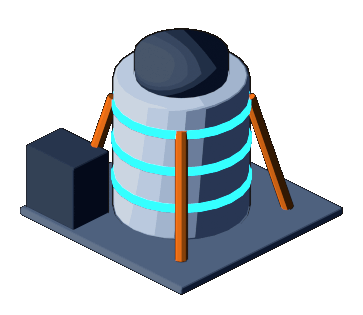
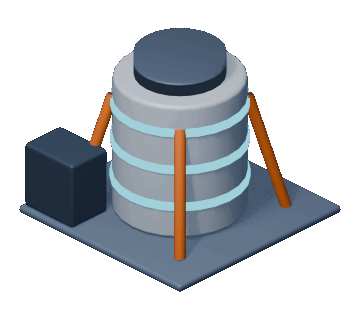
The ship after NASA's Mars Transit Habitat, firing thrusters and a streaming sky
The ship follows NASA Marshall's Mars Transit Habitat concept: one large
habitat with an airlock and docking port on its forward dome, radiator panels,
two windows and a robotic arm on the skin, a round aft skirt, and a hybrid
propulsion stage behind it (truss, four propellant tanks, deployable
radiators, two long roll-out solar arrays and a ring of Hall thrusters). It is
rendered with the team's current module look (clay shading, key light scaled
to the model), and so are the props.

In the game the Hall thrusters fire with a faint pulsing blue plume (ionized
xenon), and behind the ship the sky streams past in parallax: far and near
stars, the nearest with short trails, and soft clouds of stellar dust. Still
with reduced motion or effects off.

DEV panel: find the running scene by its status (getScenes(true) can come
back empty).

diff --git a/src/cenas/Espaco.ts b/src/cenas/Espaco.ts
@@ -25,13 +25,27 @@ const ACHATAR = 0.6;
 const GIRO_FILME = giroEm(Date.parse(`2024-05-${String(4 + voo.dia).padStart(2, '0')}T12:00:00Z`));                         // the solar system is drawn tilted, like the map
 const DIA_MARTE_MS = 88775244;               // one Mars day (sol), 24 h 39 min
 const MARTE_MIN_PX = 30;                     // Mars is drawn at least this wide, so you can see its face
-const HORAS_POR_SEG = 6;                     // gentle time drift while you look from space
+const HORAS_POR_SEG = 6;
+// The trip to Mars (chapter 2): the sky streams past the ship. The ship points to +gx, which on the
+// map is right and down (30, 15), so everything moves up and left. Speeds in px per second; far
+// stars barely move, near ones leave a short trail, and soft clouds of stellar dust drift between.
+const RUMO = { x: -30 / Math.hypot(30, 15), y: -15 / Math.hypot(30, 15) };
+const CAMADAS = [
+  { n: 220, v: 7, r: 0.9, a: 0.55, cor: 0xffffff, rastro: 0, poeira: false },
+  { n: 90, v: 28, r: 1.3, a: 0.75, cor: 0xdbeafe, rastro: 0, poeira: false },
+  { n: 30, v: 110, r: 1.6, a: 0.7, cor: 0xe0f2fe, rastro: 14, poeira: false },
+  { n: 14, v: 45, r: 46, a: 0.045, cor: 0xa78bfa, rastro: 0, poeira: true },
+  { n: 10, v: 70, r: 30, a: 0.05, cor: 0x7dd3fc, rastro: 0, poeira: true },
+];                     // gentle time drift while you look from space
 
 export class Espaco extends Phaser.Scene {
   private constelacaoAtual?: {img: Phaser.GameObjects.Image; mask?: Phaser.GameObjects.Graphics; progress?: {v:number}};
   private modoConstelacao = '';
   private ceu!: Phaser.GameObjects.Image;
   private ceuMarte!: Phaser.GameObjects.Rectangle;   // chapter 3: the daytime sky of Mars behind the map
+  // Chapter 2, the ship: stars and stellar dust streaming past, in parallax layers.
+  private viagem: Phaser.GameObjects.Graphics | null = null;
+  private estrelas: { x: number; y: number; c: number; r: number }[] = [];
   private escalaCeu = 1;
   private lua!: ReturnType<typeof criarLua>;        // live GPU Moon (luaShader.ts)
   private marte: ReturnType<typeof criarPlaneta> | null = null;   // live GPU Mars (planetaShader.ts)
@@ -61,6 +75,13 @@ export class Espaco extends Phaser.Scene {
     this.modoConstelacao = '';
     this.events.once('shutdown',()=>this.limparConstelacao());
     this.ceuMarte = this.add.rectangle(0, 0, W, H, 0xc99a72).setOrigin(0).setDepth(-99).setVisible(false);
+    this.viagem = null; this.estrelas = [];
+    if (sessao.mundo === 'nave') {
+      this.viagem = this.add.graphics().setDepth(-98);
+      for (let c = 0; c < CAMADAS.length; c++)
+        for (let i = 0; i < CAMADAS[c].n; i++)
+          this.estrelas.push({ x: Math.random() * W, y: Math.random() * H, c, r: CAMADAS[c].r * (0.6 + Math.random() * 0.8) });
+    }
     this.escalaCeu = Math.max(W / this.ceu.width, H / this.ceu.height);
     this.ceu.setScale(this.escalaCeu);
 
@@ -152,6 +173,30 @@ export class Espaco extends Phaser.Scene {
     c.img.clearMask(true);c.mask?.destroy();c.img.destroy();this.constelacaoAtual=undefined;
   }
 
+  // Moves and draws the streaming sky (chapter 2). Still with reduced motion or effects off.
+  private viajar(dt: number, W: number, H: number) {
+    const g = this.viagem!;
+    g.clear();
+    const anda = !movimentoReduzido() && video.efeitos && !configuracoesAbertas;
+    for (const e of this.estrelas) {
+      const c = CAMADAS[e.c];
+      if (anda) {
+        e.x += RUMO.x * c.v * dt; e.y += RUMO.y * c.v * dt;
+        const m = c.poeira ? e.r * 2 : 20;               // wrap around, entering from the far side
+        if (e.x < -m) e.x += W + 2 * m; if (e.y < -m) e.y += H + 2 * m;
+        if (e.x > W + m) e.x -= W + 2 * m; if (e.y > H + m) e.y -= H + 2 * m;
+      }
+      if (c.poeira) {
+        for (const k of [1, 0.7, 0.45]) g.fillStyle(c.cor, c.a).fillCircle(e.x, e.y, e.r * k);
+      } else if (c.rastro && anda) {
+        g.lineStyle(e.r, c.cor, c.a * 0.5).lineBetween(e.x, e.y, e.x - RUMO.x * c.rastro, e.y - RUMO.y * c.rastro);
+        g.fillStyle(c.cor, c.a).fillCircle(e.x, e.y, e.r);
+      } else {
+        g.fillStyle(c.cor, c.a).fillCircle(e.x, e.y, e.r);
+      }
+    }
+  }
+
   private rotulo(id: string, x: number, y: number, s: string, cor: string, alpha: number) {
     let t = this.rotulos.get(id);
     if (!t) { t = this.add.text(0, 0, s, fonte(13, cor, { fontStyle: 'bold', stroke: '#020617', strokeThickness: 4 })).setOrigin(0.5, 0); this.rotulos.set(id, t); }
@@ -170,6 +215,7 @@ export class Espaco extends Phaser.Scene {
     this.ceuMarte.setVisible(emMarte);
     this.ceu.setVisible(!emMarte);
     if (sessao.mundo !== 'lua') {
+      if (this.viagem) this.viajar(dtMs / 1000, W, H);
       this.lua.setVisible(false); this.quadro.setVisible(false); this.pino.setVisible(false); this.brilho.setVisible(false);
       this.g.clear(); this.legendaNova = '';
       for (const r of this.rotulos.values()) r.setVisible(false);

diff --git a/src/cenas/Superficie.ts b/src/cenas/Superficie.ts
@@ -125,6 +125,7 @@ export class Superficie extends Phaser.Scene {
   // The ship (chapter 2): the closed ship, roof on, over everything when zoomed out; the
   // cutaway deck when close. Names on the map fade out under the roof.
   private teto: Phaser.GameObjects.Image | null = null;
+  private plumas: Phaser.GameObjects.Graphics | null = null;   // the ship's Hall thrusters, firing
   private nomesNoMapa: Phaser.GameObjects.Text[] = [];
   private decoVisuais: { d: DecoColocada; img: Phaser.GameObjects.Image }[] = [];
   private dica?: Phaser.GameObjects.Text;                // shared prop tooltip
@@ -134,6 +135,31 @@ export class Superficie extends Phaser.Scene {
 
   constructor() {
     super({ key: 'Superficie' });   // started by Carregar
+  }
+
+  // The ship's solar electric propulsion: Hall thrusters fire for months on end with a faint
+  // blue glow (ionized xenon). Each plume points back along -gx from its exit (make_nave.py
+  // 'propulsores'): a bright core and a wide soft glow that fade with distance, gently pulsing.
+  private desenharPlumas() {
+    const g = this.plumas;
+    if (!g) return;
+    g.clear();
+    const lista = (dadosTerreno as unknown as { propulsores?: { x: number; y: number; z: number; r: number }[] }).propulsores ?? [];
+    const t = this.time.now / 1000;
+    const mexe = !movimentoReduzido() && video.efeitos;
+    const px = Math.hypot(P.ex[0], P.ex[1]);           // screen px per tile step, about 33
+    lista.forEach((m, i) => {
+      const pulso = mexe ? 0.85 + 0.15 * Math.sin(t * 9 + i * 1.7) + 0.05 * Math.sin(t * 23 + i) : 1;
+      for (let k = 14; k >= 0; k--) {
+        const d = k * 0.55;                                  // tiles back from the exit
+        const p = paraTela(P, m.x - d, m.y, m.z);
+        const f = 1 - k / 15;
+        const r = m.r * px * (1 + d * 0.22);
+        g.fillStyle(0x38bdf8, 0.10 * f * pulso).fillCircle(p.x, p.y, r * 1.9);
+        g.fillStyle(0x7dd3fc, 0.22 * f * f * pulso).fillCircle(p.x, p.y, r);
+        if (k < 6) g.fillStyle(0xe0f2fe, 0.5 * (1 - k / 6) * pulso).fillCircle(p.x, p.y, r * 0.45);
+      }
+    });
   }
 
   // The destination flag: the world's own, and on the ship Earth's (the home the crew left).
@@ -203,6 +229,9 @@ export class Superficie extends Phaser.Scene {
       ? this.add.image(0, 0, 'terreno_nave_teto').setOrigin(0).setDepth(1.5e6).setAlpha(0) : null;
     this.mapa.add(this.terreno);
     if (this.teto) this.mapa.add(this.teto);
+    // Behind the ship's picture: its structure covers the plumes where it should.
+    this.plumas = nave ? this.add.graphics().setDepth(-1.1e6).setBlendMode(Phaser.BlendModes.ADD) : null;
+    if (this.plumas) this.mapa.add(this.plumas);
     this.gCaminhos = this.add.graphics().setDepth(-900_000);
     this.mapa.add(this.gCaminhos);
     this.ambiente = new Ambiente(this,this.mapa,P,sessao.terreno,sessao.mundo);
@@ -1125,6 +1154,7 @@ export class Superficie extends Phaser.Scene {
     }
     sessao.parado = Math.hypot(this.corpo.vx, this.corpo.vy) < 0.05 && this.corpo.noChao;
     this.atualizarOclusao(dt);
+    this.desenharPlumas();
     if (this.teto) {
       // Zooming out puts the roof on: the whole closed ship; zooming in shows the deck inside.
       const a = suave(1.3, 1.75, sessao.u);

diff --git a/src/dev/painelCenas.ts b/src/dev/painelCenas.ts
@@ -52,6 +52,8 @@ export function criarPainelCenas(jogo: Phaser.Game) {
   };
 
   // --- helpers ---
+  // A running scene to load from (getScenes(true) can come back empty while the game runs).
+  const cenaRodando = () => sm.scenes.find((c) => c.sys.isActive()) ?? sm.scenes.find((c) => c.sys.settings.status === Phaser.Scenes.RUNNING);
   // The Moon scenes (chapter 1) must be running for the departure.
   const naLua = () => {
     if (!ativa('Superficie')) { avisar('The Moon scenes are not running (you are in chapter 2 or 3). Use "Reload: chapter 1".'); return false; }
@@ -63,7 +65,7 @@ export function criarPainelCenas(jogo: Phaser.Game) {
   const fimPartida = () => { if (ativa('Interface')) paraCapitulo2(); };
   // Chapter 3 is the 3D Mars (irParaMarte.ts), loaded from whatever scene is running.
   const marte3D = () => {
-    const ativa = sm.getScenes(true)[0];
+    const ativa = cenaRodando();
     if (!ativa) { avisar('No running scene to load from.'); return; }
     iniciarMarte3D(ativa, 10, [200, 200]);
   };
@@ -97,7 +99,7 @@ export function criarPainelCenas(jogo: Phaser.Game) {
   botao('Skip to the landing', () => chegada(true));
   titulo('Chapters');
   botao('Chapter 2: the ship (3D, playable)', () => {
-    const ativa = sm.getScenes(true)[0];
+    const ativa = cenaRodando();
     if (!ativa) { avisar('No running scene to load from.'); return; }
     iniciarNave3D(ativa, 5, [200]);
   });

diff --git a/tools/lua3d/make_nave.py b/tools/lua3d/make_nave.py
@@ -48,10 +48,26 @@ def limpar():
     grupo.clear()
 
 
+def luz():
+    """The team's key light (make_modules.luz_estacao: a big warm disk above the front left), scaled
+    to the model: the same light on a prop, a proportionally bigger and stronger one on the ship."""
+    if not g.get('NOVO'): return
+    pts = [o.matrix_world @ Vector(c) for o in grupo for c in o.bound_box]
+    if not pts: return
+    lado = max((max(p[i] for p in pts) - min(p[i] for p in pts)) for i in range(3))
+    k = max(1.0, lado / 6)                                 # the team's light is set for ~6-tile models
+    centro = sum(pts, Vector()) / len(pts)
+    l = bpy.data.lights.new('Sol de exportacao', 'AREA'); l.energy = 1500 * k * k; l.shape = 'DISK'; l.size = 7 * k
+    o = bpy.data.objects.new('Sol de exportacao', l); sc.collection.objects.link(o)
+    o.location = centro + Vector((2, -5, 9)) * k
+    o.rotation_euler = (centro - o.location).to_track_quat('-Z', 'Y').to_euler()
+
+
 _quadro = {}
 def render(caminho, metade=False, mesmo_quadro=False):
     """Frames the current group (or keeps the last framing), renders, quantizes; returns
     (W, H, ancora of the map origin)."""
+    luz()
     if mesmo_quadro:
         W, H, cx, cy = _quadro['q']
     else:
@@ -85,7 +101,7 @@ def escotilha(x, y, z, r=0.32, eixo='y'):
 # side toward the camera removed above the deck, like the Moon map's diorama edges).
 YC, ZC, A, B = (Y0 + Y1) / 2, 0.9, 6.9, 3.4     # tube axis (gy, z) and half width / half height
 XC0, XC1 = X0 - 0.6, X1 + 0.4                   # straight body; tail and nose beyond
-XT, XN = X0 - 2.4, X1 + 4.6                     # tail and nose tips
+XT, XN = X0 - 2.2, X1 + 2.6                     # tail and nose domes
 
 
 def fator(x):
@@ -119,7 +135,6 @@ def casco(com_teto):
             # Mission band low on the sides; the windshield on the nose.
             sn = (cz - ZC) / (B * max(fator(cx), 0.2))
             if com_teto and -0.62 < sn < -0.48 and XC0 < cx < XC1: f.material_index = 1
-            elif cx > XN - 2.6 and cz > 1.1 and cy > YC - 3.5: f.material_index = 2
     bmesh.ops.recalc_face_normals(bm, faces=bm.faces)
     for f in bm.faces:                                   # outward, away from the tube's axis
         c = f.calc_center_median()
@@ -131,15 +146,18 @@ def casco(com_teto):
     if not com_teto:                                     # a wall thickness shows on the cut edges
         sd = o.modifiers.new('espessura', 'SOLIDIFY'); sd.thickness = 0.16; sd.offset = -1
     g['_fim'](o, CASCO, 0, 0.03)
-    # _fim gave [hull, outline]. Faces use 0 = hull, 1 = band, 2 = glass, so the materials go
-    # [hull, band, glass, outline], and the outline shell (material index + offset) lands on the
-    # outline material for every face (indices past the end clamp to the last one).
+    # Faces use 0 = hull, 1 = band, 2 = glass. The team's current look (make_modules.py NOVO, the
+    # solar station's clay style) has no outline material: [hull, band, glass]. The old toon look
+    # adds an outline shell (material index + offset), so there the outline goes last.
     mats = o.data.materials
-    mats[1] = g['toon'](FAIXA)
-    mats.append(g['toon'](VIDRO))
-    mats.append(g['contorno'])
-    for m in o.modifiers:
-        if m.name == 'contorno': m.material_offset = 3
+    if g.get('NOVO'):
+        mats.append(g['toon'](FAIXA)); mats.append(g['toon'](VIDRO))
+    else:
+        mats[1] = g['toon'](FAIXA)
+        mats.append(g['toon'](VIDRO))
+        mats.append(g['contorno'])
+        for m in o.modifiers:
+            if m.name == 'contorno': m.material_offset = 3
     return o
 
 
@@ -175,38 +193,99 @@ def piso():
         lampada_ponto(x + 0.5, YC + 0.85, 0.012)
 
 
-def motores_externos():
-    for y in (YC - 2.4, YC, YC + 2.4):
-        bpy.ops.mesh.primitive_cone_add(vertices=24, radius1=0.95, radius2=0.5, depth=1.3)
-        o = bpy.context.active_object; o.location = (XT - 0.4, -y, ZC - 0.3); o.rotation_euler = (0, math.pi / 2, 0)
-        g['_fim'](o, '#475569', 0, 0.02)
-        emissivo(cilindro(XT - 1.06, y, 0.66, ZC - 0.32, ZC - 0.28, '#38bdf8', rot=(0, math.pi / 2, 0), linha=0.004), '#38bdf8', 2.0)
+# ---------- outside: after NASA's Mars Transit Habitat concept ----------
+# NASA Marshall's Mars Transit Habitat study (Gateway-derived, 2020): one large habitat module with
+# an airlock and docking port on its forward dome, micrometeoroid shielding and radiator panels on
+# its skin, two windows, an aft skirt with small thrusters, and behind it a hybrid propulsion
+# stage: storable propellant tanks, deployable radiators and large solar arrays feeding solar
+# electric propulsion (Hall thrusters, firing for months with a faint blue glow).
+XS = XT - 1.2                                   # aft skirt
+XP0, XP1 = XS - 0.4, XS - 13.0                  # propulsion stage truss, from the skirt back
+XH = XP1 - 0.6                                  # Hall thrusters' exit plane
+HALL = [(YC + 1.5 * math.cos(a), ZC + 1.5 * math.sin(a)) for a in (math.radians(30 + 60 * k) for k in range(6))]
 
 
-def asas(lados):
-    for lado in lados:                                   # -1 far side, +1 near side
-        y0 = YC + lado * (A - 0.3)
-        for xc in (X0 + 4, X1 - 4):
-            haste((xc, y0, ZC), (xc, y0 + lado * 5.2, ZC), 0.07, '#94a3b8')
-            for k in range(3):
-                ya = y0 + lado * (1.0 + k * 1.35)
-                caixa(xc - 2.6, min(ya, ya + lado * 1.2), xc + 2.6, max(ya, ya + lado * 1.2), ZC - 0.03, ZC + 0.03, '#1e3a8a', bevel=0.01, linha=0.01)
-                for xx in range(-2, 3):
-                    caixa(xc + xx - 0.02, min(ya, ya + lado * 1.2), xc + xx + 0.02, max(ya, ya + lado * 1.2), ZC + 0.03, ZC + 0.04, '#60a5fa', bevel=0, linha=0.002)
+def treliça(x0, x1, meio=0.9):
+    """A square truss along -gx: four longerons and diagonal braces."""
+    cantos = [(YC - meio, ZC - meio), (YC + meio, ZC - meio), (YC + meio, ZC + meio), (YC - meio, ZC + meio)]
+    for y, z in cantos:
+        haste((x0, y, z), (x1, y, z), 0.09, '#94a3b8')
+    passo = (x1 - x0) / 8
+    for k in range(8):
+        xa, xb = x0 + passo * k, x0 + passo * (k + 1)
+        for i in range(4):
+            (ya, za), (yb, zb) = cantos[i], cantos[(i + 1) % 4]
+            haste((xa, ya, za), (xb, yb, zb), 0.05, '#cbd5e1')
+
+
+def painel_solar(xc, lado):
+    """A roll-out solar array (like ROSA): a long blanket of cells between two booms."""
+    y0, y1 = YC + lado * 1.2, YC + lado * 12.5
+    ya, yb = min(y0, y1), max(y0, y1)
+    caixa(xc - 1.9, ya, xc + 1.9, yb, ZC - 0.03, ZC + 0.03, '#1e3a8a', bevel=0.01, linha=0.012)
+    for k in range(1, 10):                                  # cell rows
+        yk = ya + (yb - ya) * k / 10
+        caixa(xc - 1.9, yk - 0.03, xc + 1.9, yk + 0.03, ZC + 0.03, ZC + 0.045, '#60a5fa', bevel=0, linha=0.002)
+    for xx in (xc - 1.95, xc + 1.95):                       # booms
+        haste((xx, y0, ZC), (xx, y1, ZC), 0.06, '#e5c07b')
+    haste((xc, YC, ZC), (xc, y0, ZC), 0.1, '#94a3b8')       # the mast to the truss
+
+
+def estagio_propulsao(lados):
+    cilindro((XS + XT + 0.4) / 2, YC, 2.4, ZC - (XT + 0.4 - XS) / 2, ZC + (XT + 0.4 - XS) / 2, '#cbd5e1',
+             rot=(0, math.pi / 2, 0), linha=0.02, bevel=0.15)                                # aft skirt, round
+    for y, z in ((YC - 2.45, ZC + 0.6), (YC + 2.45, ZC + 0.6), (YC - 2.45, ZC - 0.6), (YC + 2.45, ZC - 0.6)):
+        cilindro(XS + 0.4, y, 0.16, z - 0.12, z + 0.12, '#475569', linha=0.006)             # small docking thrusters
+    treliça(XP0, XP1)
+    for y, z in ((YC - 1.7, ZC - 1.7), (YC + 1.7, ZC - 1.7), (YC - 1.7, ZC + 1.7), (YC + 1.7, ZC + 1.7)):
+        esfera(XP0 - 2.6, y, z, 1.25, 1.25, 1.25, '#f1f5f9', linha=0.02)                        # propellant tanks
+    for sentido in (1, -1):                                 # deployable radiators, up and down
+        for k in range(3):
+            xr = XP0 - 5.0 - k * 1.35
+            caixa(xr - 0.55, YC - 0.05, xr + 0.55, YC + 0.05, ZC + sentido * 1.0, ZC + sentido * 5.0, '#e2e8f0', bevel=0.02, linha=0.01)
+    for lado in lados:
+        painel_solar(XP0 - 9.0, lado)
+    # Hall thrusters in a ring around the main engine's bell, at the very back.
+    caixa(XH + 0.35, YC - 2.2, XH + 0.75, YC + 2.2, ZC - 2.2, ZC + 2.2, '#64748b', bevel=0.1, linha=0.015)
+    for y, z in HALL:
+        cilindro(XH + 0.35, y, 0.42, z - 0.3, z + 0.3, '#334155', rot=(0, math.pi / 2, 0), linha=0.012)
+        emissivo(cilindro(XH, y, 0.32, z - 0.03, z + 0.03, '#7dd3fc', rot=(0, math.pi / 2, 0), linha=0.003), '#7dd3fc', 2.4)
+    bpy.ops.mesh.primitive_cone_add(vertices=24, radius1=0.75, radius2=0.35, depth=1.0)
+    o = bpy.context.active_object; o.location = (XH, -YC, ZC); o.rotation_euler = (0, math.pi / 2, 0)
+    g['_fim'](o, '#475569', 0, 0.015)
+
+
+def proa():
+    """The forward dome's airlock and docking port (where the crew vehicles dock)."""
+    cilindro(XN + 0.8, YC, 1.4, ZC - 1.3, ZC + 1.3, '#e2e8f0', rot=(0, math.pi / 2, 0), linha=0.02, bevel=0.06)
+    cilindro(XN + 2.15, YC, 1.65, ZC - 0.08, ZC + 0.08, '#94a3b8', rot=(0, math.pi / 2, 0), linha=0.012)
+    cilindro(XN + 2.4, YC, 0.9, ZC - 0.25, ZC + 0.25, '#64748b', rot=(0, math.pi / 2, 0), linha=0.012)
+
+
+def braco_robotico():
+    """The robotic arm that walks the length of the vehicle, folded on the roof."""
+    topo = ZC + B + 0.15
+    pts = [(X0 + 3, YC + 1.5, topo), (X0 + 7, YC + 2.2, topo + 1.1), (X0 + 11, YC + 1.2, topo + 0.2)]
+    for a, b in zip(pts, pts[1:]):
+        haste(a, b, 0.14, '#f8fafc')
+    for p in pts:
+        esfera(p[0], p[1], p[2], 0.22, 0.22, 0.22, '#64748b', linha=0.008)
 
 
 def nave(com_teto):
     casco(com_teto)
-    motores_externos()
-    asas((-1, 1) if com_teto else (-1,))
-    for x in range(X0 + 1, X1, 3):
+    estagio_propulsao((-1, 1))
+    proa()
+    for x in range(X0 + 2, X1, 5):                                           # portholes on the far wall
         escotilha_casco(x + 0.5, -1)
-        if com_teto: escotilha_casco(x + 0.5, 1)
     if com_teto:
-        # Roof details: radiator panels and a hatch along the top.
-        for x in range(X0 + 2, X1 - 1, 4):
-            caixa(x, YC - 1.2, x + 2.4, YC + 1.2, ZC + B + 0.02, ZC + B + 0.1, '#cbd5e1', bevel=0.02, linha=0.01)
-        cilindro(XC1 - 2, YC, 0.6, ZC + B - 0.05, ZC + B + 0.2, '#94a3b8', linha=0.015)
+        escotilha_casco(X1 - 3, 1, r=0.55); escotilha_casco(X1 - 6, 1, r=0.55)   # the habitat's two windows
+        # Radiator panels on the skin and the robotic arm on the roof.
+        for x in range(X0 + 1, X1 - 1, 4):
+            caixa(x, YC - 1.4, x + 3.2, YC + 1.4, ZC + B + 0.02, ZC + B + 0.08, '#e2e8f0', bevel=0.02, linha=0.01)
+            for k in range(1, 4):
+                caixa(x + 0.8 * k - 0.02, YC - 1.4, x + 0.8 * k + 0.02, YC + 1.4, ZC + B + 0.08, ZC + B + 0.1, '#94a3b8', bevel=0, linha=0.002)
+        braco_robotico()
     else:
         piso()
 
@@ -313,6 +392,8 @@ def main():
         'corpo': 'nave', 'centro': {'lat': 0, 'lon': 0}, 'n': N, 'metrosPorTile': 2.0, 'alturaBaseM': 0,
         'inclinacaoMaxAndar': 20, 'inclinacaoMaxConstruir': 10, 'alturas': alturas, 'inclinacao': incl,
         'convés': {'x0': X0, 'x1': X1, 'y0': Y0, 'y1': Y1},
+        # Exits of the Hall thrusters (tiles; the plume points to -gx): the game draws their glow.
+        'propulsores': [{'x': round(XH, 3), 'y': round(y, 3), 'z': round(z, 3), 'r': 0.32} for y, z in HALL],
         # The closed ship (roof on), same size and origin: shown when zoomed out.
         'imagemTeto': 'nave/terrain_teto.png',
         'imagem': {'arquivo': 'nave/terrain.png', 'w': W, 'h': H, 'origem': ancora,
